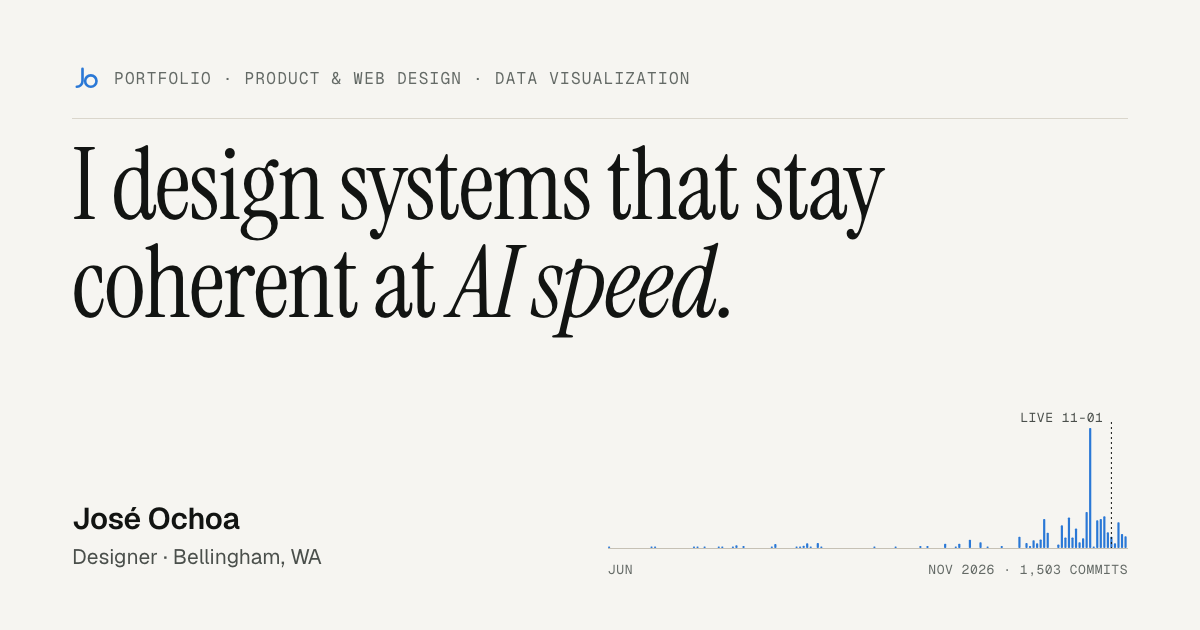
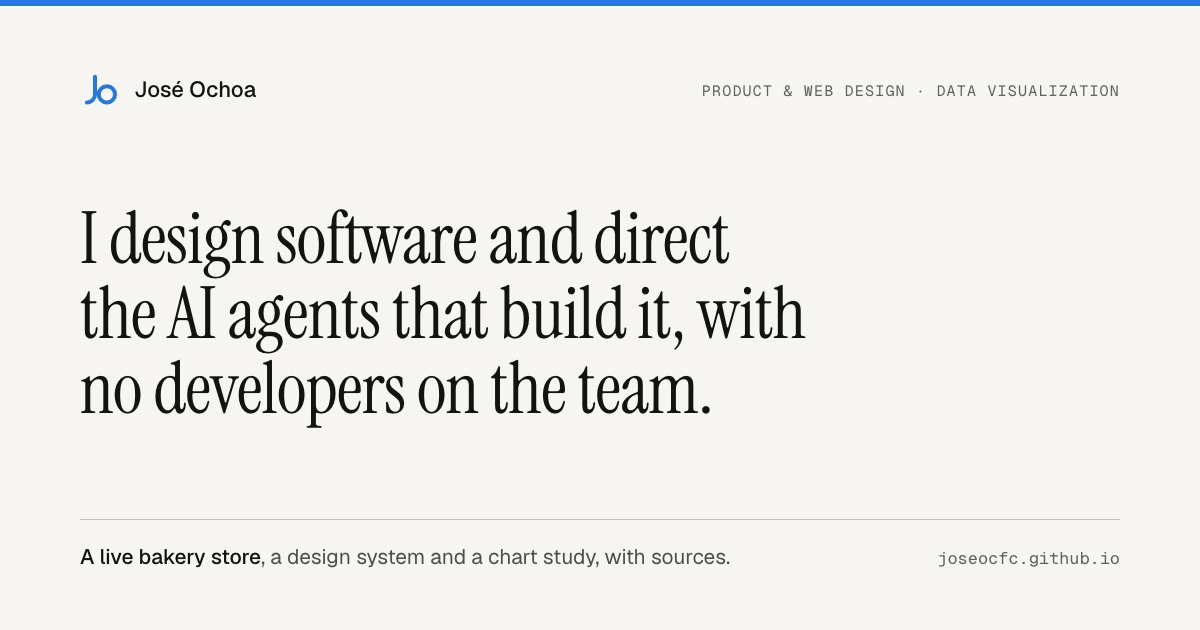
sweep: fresh og.png fallback, two stale og captures, alt text that describes each image (F10, F14)
og.png still carried the old "coherent at AI speed" headline and the
commit chart. It is now a 1200x630 card in the site's tokens and type
with the positioning line. home.jpg and charts-demo.jpg are recaptured
with lanes/v2/tools/perf/og.mjs: they showed the old hero sentence and
the "build lane A2" eyebrow. og:image:alt and twitter:image:alt on nine
pages now say what the capture shows instead of "Screenshot of the top
of the page: <title>"; bakery and Epoch keep their image alts.

diff --git a/index.html b/index.html
@@ -16,12 +16,12 @@
 <meta property="og:image:type" content="image/jpeg">
 <meta property="og:image:width" content="1200">
 <meta property="og:image:height" content="630">
-<meta property="og:image:alt" content="Screenshot of the top of the page: José Ochoa: I design software and direct the AI agents that build it">
+<meta property="og:image:alt" content="Top of José Ochoa’s home page: the headline “I design software and direct the AI agents that build it, with no developers on the team” above a summary of the live bakery ordering system.">
 <meta name="twitter:card" content="summary_large_image">
 <meta name="twitter:title" content="José Ochoa: I design software and direct the AI agents that build it">
 <meta name="twitter:description" content="I design software and direct the AI agents that build it, with no developers on the team. A live bakery store, a design system and a chart study, with sources.">
 <meta name="twitter:image" content="https://joseocfc.github.io/assets/img/og/home.jpg">
-<meta name="twitter:image:alt" content="Screenshot of the top of the page: José Ochoa: I design software and direct the AI agents that build it">
+<meta name="twitter:image:alt" content="Top of José Ochoa’s home page: the headline “I design software and direct the AI agents that build it, with no developers on the team” above a summary of the live bakery ordering system.">
 <meta name="theme-color" content="#F6F5F1" media="(prefers-color-scheme: light)">
 <meta name="theme-color" content="#121412" media="(prefers-color-scheme: dark)">
 <link rel="icon" href="/assets/img/favicon.svg" type="image/svg+xml">

diff --git a/work/design-system/index.html b/work/design-system/index.html
@@ -17,12 +17,12 @@
 <meta property="og:image:type" content="image/jpeg">
 <meta property="og:image:width" content="1200">
 <meta property="og:image:height" content="630">
-<meta property="og:image:alt" content="Screenshot of the top of the page: One design system, in code and in Figma, checked both ways">
+<meta property="og:image:alt" content="Top of the design-system case study: the headline “One system in both directions” and four figures: 94 contract tokens, 60 Figma variables, 0 unexplained deltas, 3 raw font sizes left.">
 <meta name="twitter:card" content="summary_large_image">
 <meta name="twitter:title" content="One design system, in code and in Figma, checked both ways">
 <meta name="twitter:description" content="94 tokens, 60 Figma variables, 0 unexplained deltas. How the co-op’s theme.json, CSS and Figma library became the same object.">
 <meta name="twitter:image" content="https://joseocfc.github.io/assets/img/og/design-system.jpg">
-<meta name="twitter:image:alt" content="Figma cover page titled CFC Design System, with a green stamp reading Frozen v1.0, 2026-07-17, and five rule cards.">
+<meta name="twitter:image:alt" content="Top of the design-system case study: the headline “One system in both directions” and four figures: 94 contract tokens, 60 Figma variables, 0 unexplained deltas, 3 raw font sizes left.">
 <meta name="theme-color" content="#F6F5F1" media="(prefers-color-scheme: light)">
 <meta name="theme-color" content="#121412" media="(prefers-color-scheme: dark)">
 <link rel="icon" href="/assets/img/favicon.svg" type="image/svg+xml">

diff --git a/404.html b/404.html
@@ -16,12 +16,12 @@
 <meta property="og:image:type" content="image/jpeg">
 <meta property="og:image:width" content="1200">
 <meta property="og:image:height" content="630">
-<meta property="og:image:alt" content="Screenshot of the top of the home page of José Ochoa’s portfolio">
+<meta property="og:image:alt" content="Top of José Ochoa’s home page: the headline “I design software and direct the AI agents that build it, with no developers on the team” above a summary of the live bakery ordering system.">
 <meta name="twitter:card" content="summary_large_image">
 <meta name="twitter:title" content="Page not found — José Ochoa">
 <meta name="twitter:description" content="This page doesn't exist. The case studies, the process and the about page are one click away.">
 <meta name="twitter:image" content="https://joseocfc.github.io/assets/img/og/home.jpg">
-<meta name="twitter:image:alt" content="Screenshot of the top of the home page of José Ochoa’s portfolio">
+<meta name="twitter:image:alt" content="Top of José Ochoa’s home page: the headline “I design software and direct the AI agents that build it, with no developers on the team” above a summary of the live bakery ordering system.">
 <meta name="theme-color" content="#F6F5F1" media="(prefers-color-scheme: light)">
 <meta name="theme-color" content="#121412" media="(prefers-color-scheme: dark)">
 <link rel="icon" href="/assets/img/favicon.svg" type="image/svg+xml">

diff --git a/about/index.html b/about/index.html
@@ -16,12 +16,12 @@
 <meta property="og:image:type" content="image/jpeg">
 <meta property="og:image:width" content="1200">
 <meta property="og:image:height" content="630">
-<meta property="og:image:alt" content="Screenshot of the top of the page: José Ochoa, product and web designer">
+<meta property="og:image:alt" content="Top of the About page: the headline “I design software and direct the AI agents that build it, with no developers on the team” and the opening of José’s bio.">
 <meta name="twitter:card" content="summary_large_image">
 <meta name="twitter:title" content="José Ochoa, product and web designer">
 <meta name="twitter:description" content="Industrial designer turned product and web designer. Pacific time, five hours of daily overlap with Eastern, Spanish and English.">
 <meta name="twitter:image" content="https://joseocfc.github.io/assets/img/og/about.jpg">
-<meta name="twitter:image:alt" content="Screenshot of the top of the page: José Ochoa, product and web designer">
+<meta name="twitter:image:alt" content="Top of the About page: the headline “I design software and direct the AI agents that build it, with no developers on the team” and the opening of José’s bio.">
 <meta name="theme-color" content="#F6F5F1" media="(prefers-color-scheme: light)">
 <meta name="theme-color" content="#121412" media="(prefers-color-scheme: dark)">
 <link rel="icon" href="/assets/img/favicon.svg" type="image/svg+xml">

diff --git a/charts-demo.html b/charts-demo.html
@@ -17,12 +17,12 @@
 <meta property="og:image:type" content="image/jpeg">
 <meta property="og:image:width" content="1200">
 <meta property="og:image:height" content="630">
-<meta property="og:image:alt" content="Screenshot of the top of the page: Chart system — José Ochoa">
+<meta property="og:image:alt" content="Top of the chart-system page: the headline “Ten charts, one grammar” and a paragraph on how every figure is drawn from the real data.">
 <meta name="twitter:card" content="summary_large_image">
 <meta name="twitter:title" content="Chart system — José Ochoa">
 <meta name="twitter:description" content="The site’s chart system, rendered from the real data: the figure anatomy, the palette, the table view and the download.">
 <meta name="twitter:image" content="https://joseocfc.github.io/assets/img/og/charts-demo.jpg">
-<meta name="twitter:image:alt" content="Screenshot of the top of the page: Chart system — José Ochoa">
+<meta name="twitter:image:alt" content="Top of the chart-system page: the headline “Ten charts, one grammar” and a paragraph on how every figure is drawn from the real data.">
 <meta name="theme-color" content="#F6F5F1" media="(prefers-color-scheme: light)">
 <meta name="theme-color" content="#121412" media="(prefers-color-scheme: dark)">
 <link rel="icon" href="/assets/img/favicon.svg" type="image/svg+xml">

diff --git a/for-epoch/index.html b/for-epoch/index.html
@@ -17,12 +17,12 @@
 <meta property="og:image:type" content="image/jpeg">
 <meta property="og:image:width" content="1200">
 <meta property="og:image:height" content="630">
-<meta property="og:image:alt" content="Screenshot of the top of the page: A note for Epoch AI’s design team">
+<meta property="og:image:alt" content="Top of the note for Epoch AI: the headline “A note for Epoch AI’s design team” and a line quoted from Epoch’s Designer / Senior Designer posting.">
 <meta name="twitter:card" content="summary_large_image">
 <meta name="twitter:title" content="A note for Epoch AI’s design team">
 <meta name="twitter:description" content="Why my work fits the Designer / Senior Designer role at Epoch AI.">
 <meta name="twitter:image" content="https://joseocfc.github.io/assets/img/og/for-epoch.jpg">
-<meta name="twitter:image:alt" content="Screenshot of the top of the page: A note for Epoch AI’s design team">
+<meta name="twitter:image:alt" content="Top of the note for Epoch AI: the headline “A note for Epoch AI’s design team” and a line quoted from Epoch’s Designer / Senior Designer posting.">
 <meta name="theme-color" content="#F6F5F1" media="(prefers-color-scheme: light)">
 <meta name="theme-color" content="#121412" media="(prefers-color-scheme: dark)">
 <link rel="icon" href="/assets/img/favicon.svg" type="image/svg+xml">

diff --git a/process/index.html b/process/index.html
@@ -16,12 +16,12 @@
 <meta property="og:image:type" content="image/jpeg">
 <meta property="og:image:width" content="1200">
 <meta property="og:image:height" content="630">
-<meta property="og:image:alt" content="Screenshot of the top of the page: How I direct AI agents, and what review caught">
+<meta property="og:image:alt" content="Top of the Process page: the headline “How I direct AI agents, and what review caught” and the start of the ten principles.">
 <meta name="twitter:card" content="summary_large_image">
 <meta name="twitter:title" content="How I direct AI agents, and what review caught">
 <meta name="twitter:description" content="Ten rules, one loop, and what four reviewers caught in this site.">
 <meta name="twitter:image" content="https://joseocfc.github.io/assets/img/og/process.jpg">
-<meta name="twitter:image:alt" content="Screenshot of the top of the page: How I direct AI agents, and what review caught">
+<meta name="twitter:image:alt" content="Top of the Process page: the headline “How I direct AI agents, and what review caught” and the start of the ten principles.">
 <meta name="theme-color" content="#F6F5F1" media="(prefers-color-scheme: light)">
 <meta name="theme-color" content="#121412" media="(prefers-color-scheme: dark)">
 <link rel="icon" href="/assets/img/favicon.svg" type="image/svg+xml">

diff --git a/process/prompts/index.html b/process/prompts/index.html
@@ -16,12 +16,12 @@
 <meta property="og:image:type" content="image/jpeg">
 <meta property="og:image:width" content="1200">
 <meta property="og:image:height" content="630">
-<meta property="og:image:alt" content="Screenshot of the top of the page: One prompt, annotated">
+<meta property="og:image:alt" content="Top of the prompt page: the headline “One prompt, annotated” and the first lines of the prompt given to the QA agent.">
 <meta name="twitter:card" content="summary_large_image">
 <meta name="twitter:title" content="One prompt, annotated">
 <meta name="twitter:description" content="The prompt given to the QA agent that checked this site, trimmed, with a note on what each line is for.">
 <meta name="twitter:image" content="https://joseocfc.github.io/assets/img/og/process-prompts.jpg">
-<meta name="twitter:image:alt" content="Screenshot of the top of the page: One prompt, annotated">
+<meta name="twitter:image:alt" content="Top of the prompt page: the headline “One prompt, annotated” and the first lines of the prompt given to the QA agent.">
 <meta name="theme-color" content="#F6F5F1" media="(prefers-color-scheme: light)">
 <meta name="theme-color" content="#121412" media="(prefers-color-scheme: dark)">
 <link rel="icon" href="/assets/img/favicon.svg" type="image/svg+xml">

diff --git a/styleguide/index.html b/styleguide/index.html
@@ -17,12 +17,12 @@
 <meta property="og:image:type" content="image/jpeg">
 <meta property="og:image:width" content="1200">
 <meta property="og:image:height" content="630">
-<meta property="og:image:alt" content="Screenshot of the top of the page: Styleguide — José Ochoa">
+<meta property="og:image:alt" content="Top of the styleguide: the headline “Components, in both themes” and the color tokens shown in light and dark.">
 <meta name="twitter:card" content="summary_large_image">
 <meta name="twitter:title" content="Styleguide — José Ochoa">
 <meta name="twitter:description" content="Every component of the portfolio's design system, rendered in light and dark from the production CSS.">
 <meta name="twitter:image" content="https://joseocfc.github.io/assets/img/og/styleguide.jpg">
-<meta name="twitter:image:alt" content="Screenshot of the top of the page: Styleguide — José Ochoa">
+<meta name="twitter:image:alt" content="Top of the styleguide: the headline “Components, in both themes” and the color tokens shown in light and dark.">
 <meta name="theme-color" content="#F6F5F1" media="(prefers-color-scheme: light)">
 <meta name="theme-color" content="#121412" media="(prefers-color-scheme: dark)">
 <link rel="icon" href="/assets/img/favicon.svg" type="image/svg+xml">
